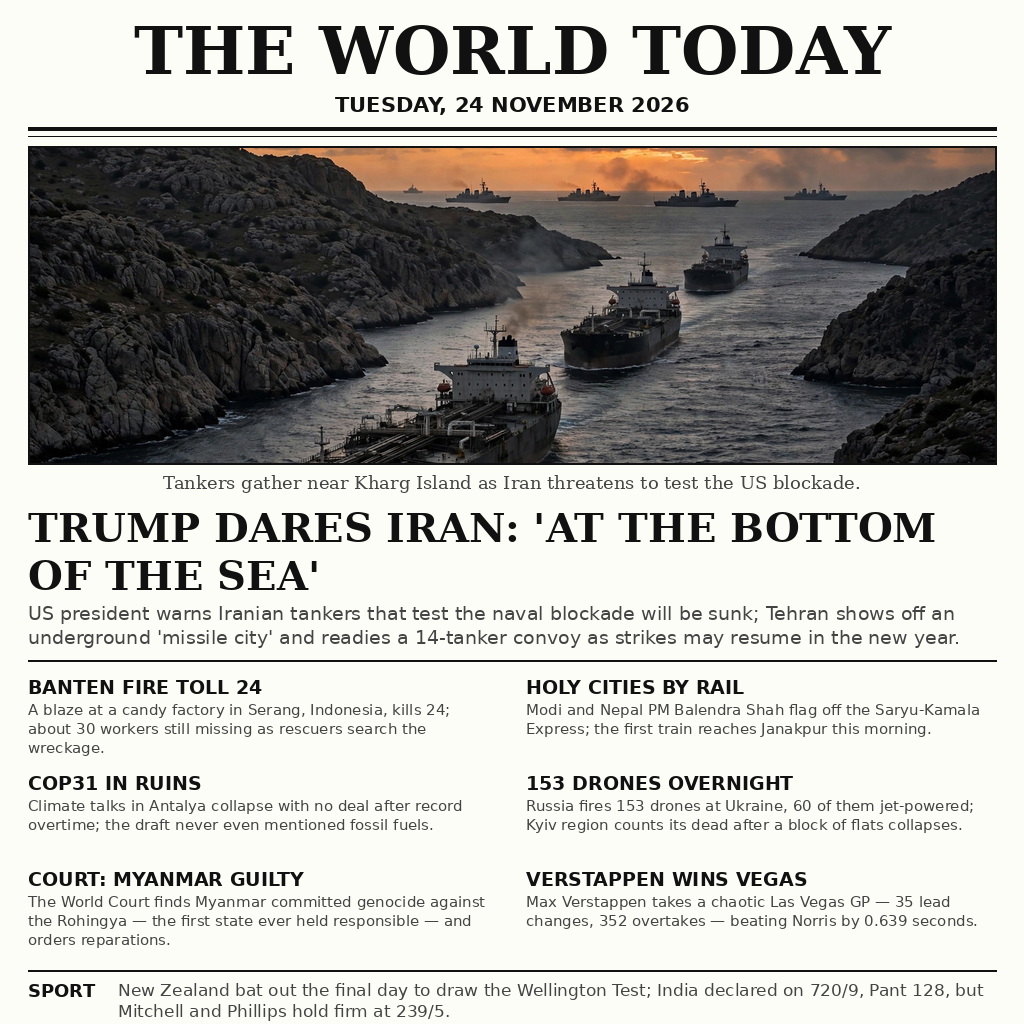
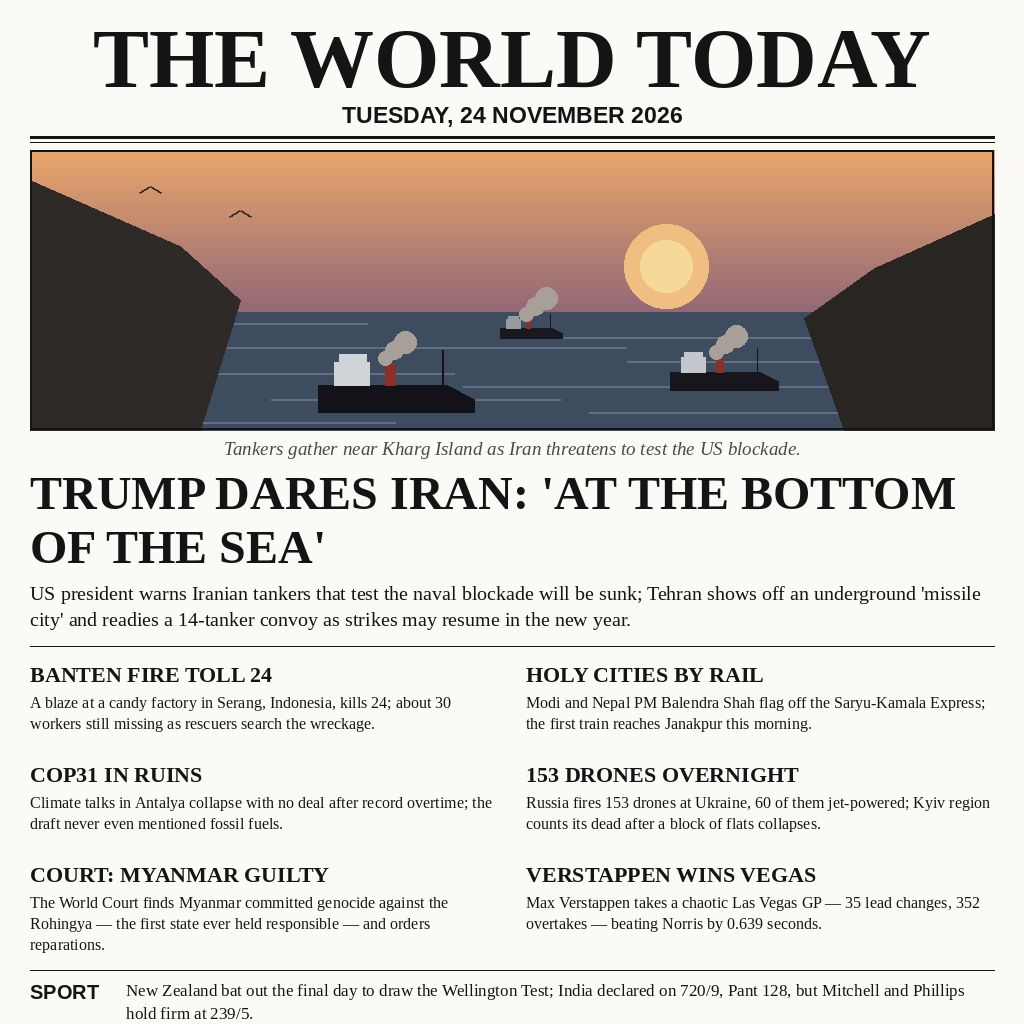
Rewrite front-page generator from scratch (fresh implementation, deterministic)

diff --git a/main.py b/main.py
@@ -1,24 +1,361 @@
 #!/usr/bin/env python3
-"""News Front Page 24 November 2026.
+"""Front page of THE WORLD TODAY for Tuesday, 24 November 2026.
 
-Copies the pre-composed front-page image (entry.png, 1024x1024 PNG)
-byte-for-byte to the output directory. No network, no randomness:
-running this program twice always produces identical output bytes.
+Builds a one-page newspaper front page (1024 x 1024 PNG) with Pillow:
+a masthead and dateline, a hand-drawn sunset scene of tankers in a
+strait, the lead story on the US-Iran blockade standoff, six short
+stories in a two-column grid, and a sport strip at the foot.
+
+All text and all geometry are fixed constants, so the output is fully
+deterministic: running the script twice yields byte-identical PNG data.
+No clock, no randomness, no network access.
 """
+
 import os
 import shutil
-import sys
+from pathlib import Path
+
+from PIL import Image, ImageDraw, ImageFont
+
+# ---------------------------------------------------------------- page setup
+
+PAGE_W = 1024
+PAGE_H = 1024
+EDGE = 30                        # outer margin on both sides
+INNER_W = PAGE_W - 2 * EDGE      # usable width between the margins
+
+PAPER = (251, 250, 246)          # warm off-white newsprint
+INK = (20, 20, 20)              # near-black for text and rules
+FAINT = (74, 74, 74)            # grey for the photo caption
+
+# ---------------------------------------------------------------- fonts
+
+FONT_PATHS = {
+    "serif_bold": [
+        "/usr/share/fonts/truetype/liberation/LiberationSerif-Bold.ttf",
+        "/usr/share/fonts/truetype/dejavu/DejaVuSerif-Bold.ttf",
+    ],
+    "serif": [
+        "/usr/share/fonts/truetype/liberation/LiberationSerif-Regular.ttf",
+        "/usr/share/fonts/truetype/dejavu/DejaVuSerif.ttf",
+    ],
+    "serif_italic": [
+        "/usr/share/fonts/truetype/liberation/LiberationSerif-Italic.ttf",
+        "/usr/share/fonts/truetype/dejavu/DejaVuSerif.ttf",
+    ],
+    "sans_bold": [
+        "/usr/share/fonts/truetype/liberation/LiberationSans-Bold.ttf",
+        "/usr/share/fonts/truetype/dejavu/DejaVuSans-Bold.ttf",
+    ],
+}
+
+
+def pick_font(kind, size):
+    """Return the first usable font file for kind, else Pillow's default."""
+    for path in FONT_PATHS[kind]:
+        try:
+            return ImageFont.truetype(path, size)
+        except OSError:
+            continue
+    return ImageFont.load_default(size)
+
+
+# ---------------------------------------------------------------- text tools
+
+def wrap_text(canvas, text, font, max_width):
+    """Greedy word wrap: split text into lines no wider than max_width."""
+    lines = []
+    current = ""
+    for word in text.split():
+        trial = word if not current else current + " " + word
+        if canvas.textlength(trial, font=font) <= max_width:
+            current = trial
+        else:
+            if current:
+                lines.append(current)
+            current = word
+    if current:
+        lines.append(current)
+    return lines
+
+
+def paint_lines(canvas, lines, font, x, y, leading, fill=INK):
+    """Draw lines top to bottom, returning the y just below the last one."""
+    for line in lines:
+        canvas.text((x, y), line, font=font, fill=fill)
+        y += leading
+    return y
+
+
+def rule(canvas, y, weight=1):
+    """A solid horizontal rule spanning the content width."""
+    canvas.rectangle([EDGE, y, PAGE_W - EDGE, y + weight - 1], fill=INK)
+
+
+# ---------------------------------------------------------------- hero picture
+
+def _lerp(a, b, t):
+    """Blend two RGB colours by factor t (0..1)."""
+    return tuple(round(a[i] + (b[i] - a[i]) * t) for i in range(3))
+
+
+def _tanker(canvas, cx, water_y, scale, hull, deck):
+    """Draw one tanker silhouette centred on cx, floating on water_y."""
+    hull_w = int(150 * scale)
+    hull_h = int(26 * scale)
+    bow = int(26 * scale)
+    x0 = cx - hull_w // 2
+    x1 = cx + hull_w // 2
+    # Hull: a long body with a tapered bow on the right.
+    canvas.polygon(
+        [
+            (x0, water_y - hull_h),
+            (x1 - bow, water_y - hull_h),
+            (x1, water_y - hull_h // 2),
+            (x1, water_y),
+            (x0, water_y),
+        ],
+        fill=hull,
+    )
+    # White superstructure block and bridge near the stern.
+    sup_w = int(34 * scale)
+    sup_h = int(22 * scale)
+    canvas.rectangle(
+        [x0 + int(16 * scale), water_y - hull_h - sup_h,
+         x0 + int(16 * scale) + sup_w, water_y - hull_h],
+        fill=deck,
+    )
+    canvas.rectangle(
+        [x0 + int(20 * scale), water_y - hull_h - sup_h - int(8 * scale),
+         x0 + int(20 * scale) + int(26 * scale),
+         water_y - hull_h - sup_h],
+        fill=deck,
+    )
+    # Funnel with a dark red band, plus a thin mast and a wisp of smoke.
+    fx = x0 + int(64 * scale)
+    canvas.rectangle(
+        [fx, water_y - hull_h - int(20 * scale),
+         fx + int(10 * scale), water_y - hull_h],
+        fill=(140, 47, 38),
+    )
+    canvas.line(
+        [cx + hull_w // 2 - int(30 * scale), water_y - hull_h,
+         cx + hull_w // 2 - int(30 * scale),
+         water_y - hull_h - int(34 * scale)],
+        fill=hull, width=max(1, int(2 * scale)),
+    )
+    for k, (dx, dy, r) in enumerate(((0, -6, 7), (9, -14, 9), (20, -22, 11))):
+        canvas.ellipse(
+            [fx + dx - r, water_y - hull_h - int(20 * scale) + dy - r,
+             fx + dx + r, water_y - hull_h - int(20 * scale) + dy + r],
+            fill=(168, 160, 152),
+        )
+
+
+def paint_strait(canvas, box):
+    """Paint the hero scene: dusk sky, sun, sea, cliffs, three tankers."""
+    x0, y0, x1, y1 = box
+    width = x1 - x0
+    horizon = y0 + int((y1 - y0) * 0.58)
+
+    # Sky: warm orange at the top fading into a dusky mauve at the sea.
+    sky_top = (233, 166, 106)
+    sky_low = (146, 104, 118)
+    for yy in range(y0, horizon):
+        t = (yy - y0) / max(1, horizon - y0)
+        canvas.line([(x0, yy), (x1, yy)], fill=_lerp(sky_top, sky_low, t))
+
+    # Low sun with a soft glow, sitting just above the horizon.
+    sun_cx, sun_cy = x0 + int(width * 0.66), horizon - 46
+    canvas.ellipse(
+        [sun_cx - 42, sun_cy - 42, sun_cx + 42, sun_cy + 42],
+        fill=(240, 190, 128),
+    )
+    canvas.ellipse(
+        [sun_cx - 26, sun_cy - 26, sun_cx + 26, sun_cy + 26],
+        fill=(246, 216, 152),
+    )
+
+    # Sea: dark blue-grey with a few pale, flat wave streaks.
+    canvas.rectangle([x0, horizon, x1, y1], fill=(61, 76, 94))
+    streaks = [
+        (0.10, 0.05, 0.30), (0.22, 0.55, 0.28), (0.30, 0.20, 0.42),
+        (0.42, 0.62, 0.30), (0.52, 0.08, 0.36), (0.63, 0.45, 0.40),
+        (0.74, 0.25, 0.30), (0.85, 0.58, 0.34), (0.94, 0.12, 0.26),
+    ]
+    sea_h = y1 - horizon
+    for frac, start, length in streaks:
+        yy = horizon + int(sea_h * frac)
+        sx = x0 + int(width * start)
+        ex = sx + int(width * length)
+        canvas.line([(sx, yy), (ex, yy)], fill=(96, 112, 130), width=2)
+
+    # Rocky headlands left and right, closing the strait.
+    canvas.polygon(
+        [(x0, y1), (x0, y0 + 30), (x0 + 150, y0 + 96),
+         (x0 + 210, y0 + 150), (x0 + 170, y1)],
+        fill=(46, 42, 40),
+    )
+    canvas.polygon(
+        [(x1, y1), (x1, y0 + 64), (x1 - 120, y0 + 118),
+         (x1 - 190, y0 + 168), (x1 - 150, y1)],
+        fill=(40, 37, 35),
+    )
+
+    # Three tankers: one distant near the horizon, two closer in.
+    _tanker(canvas, x0 + int(width * 0.52), horizon + 26, 0.42,
+            (24, 24, 30), (150, 154, 158))
+    _tanker(canvas, x0 + int(width * 0.72), horizon + 78, 0.72,
+            (22, 22, 28), (196, 199, 203))
+    _tanker(canvas, x0 + int(width * 0.38), y1 - 18, 1.05,
+            (18, 18, 24), (207, 210, 214))
+
+    # Two gulls high in the sky.
+    for gx, gy in ((x0 + 120, y0 + 42), (x0 + 210, y0 + 66)):
+        canvas.line([(gx - 10, gy), (gx, gy - 6), (gx + 10, gy)],
+                    fill=(60, 52, 48), width=2)
+
+    # Thin black frame around the picture.
+    canvas.rectangle([x0, y0, x1 - 1, y1 - 1], outline=INK, width=2)
+
+
+# ---------------------------------------------------------------- story cells
+
+def story_cell(canvas, x, y, width, headline, body, head_font, body_font):
+    """One grid item: bold headline, then a short body paragraph."""
+    y = paint_lines(
+        canvas, wrap_text(canvas, headline, head_font, width),
+        head_font, x, y, 27,
+    )
+    y += 4
+    y = paint_lines(
+        canvas, wrap_text(canvas, body, body_font, width),
+        body_font, x, y, 21,
+    )
+    return y
+
+
+# ---------------------------------------------------------------- the page
+
+LEAD_HEADLINE = "TRUMP DARES IRAN: 'AT THE BOTTOM OF THE SEA'"
+LEAD_DECK = (
+    "US president warns Iranian tankers that test the naval blockade will "
+    "be sunk; Tehran shows off an underground 'missile city' and readies a "
+    "14-tanker convoy as strikes may resume in the new year."
+)
+PHOTO_CAPTION = (
+    "Tankers gather near Kharg Island as Iran threatens to test the US blockade."
+)
+
+GRID_STORIES = [
+    ("BANTEN FIRE TOLL 24",
+     "A blaze at a candy factory in Serang, Indonesia, kills 24; about 30 "
+     "workers still missing as rescuers search the wreckage."),
+    ("HOLY CITIES BY RAIL",
+     "Modi and Nepal PM Balendra Shah flag off the Saryu-Kamala Express; "
+     "the first train reaches Janakpur this morning."),
+    ("COP31 IN RUINS",
+     "Climate talks in Antalya collapse with no deal after record "
+     "overtime; the draft never even mentioned fossil fuels."),
+    ("153 DRONES OVERNIGHT",
+     "Russia fires 153 drones at Ukraine, 60 of them jet-powered; Kyiv "
+     "region counts its dead after a block of flats collapses."),
+    ("COURT: MYANMAR GUILTY",
+     "The World Court finds Myanmar committed genocide against the "
+     "Rohingya \u2014 the first state ever held responsible \u2014 and orders "
+     "reparations."),
+    ("VERSTAPPEN WINS VEGAS",
+     "Max Verstappen takes a chaotic Las Vegas GP \u2014 35 lead changes, "
+     "352 overtakes \u2014 beating Norris by 0.639 seconds."),
+]
+
+SPORT_TEXT = (
+    "New Zealand bat out the final day to draw the Wellington Test; India "
+    "declared on 720/9, Pant 128, but Mitchell and Phillips hold firm at 239/5."
+)
+
+
+def build_front_page():
+    """Assemble the whole front page and return the Pillow image."""
+    page = Image.new("RGB", (PAGE_W, PAGE_H), PAPER)
+    canvas = ImageDraw.Draw(page)
+
+    masthead = pick_font("serif_bold", 84)
+    dateline = pick_font("sans_bold", 23)
+    caption_font = pick_font("serif_italic", 19)
+    lead_font = pick_font("serif_bold", 48)
+    deck_font = pick_font("serif", 20)
+    cell_head = pick_font("serif_bold", 22)
+    cell_body = pick_font("serif", 16)
+    sport_tag = pick_font("sans_bold", 20)
+    sport_body = pick_font("serif", 17)
+
+    y = 12
+    canvas.text((PAGE_W // 2, y), "THE WORLD TODAY", font=masthead,
+                anchor="ma", fill=INK)
+    y = 102
+    canvas.text((PAGE_W // 2, y), "TUESDAY, 24 NOVEMBER 2026",
+                font=dateline, anchor="ma", fill=INK)
+
+    rule(canvas, 136, weight=3)
+    rule(canvas, 142, weight=1)
+
+    # Hero picture and its caption. The picture is 280 tall so the page
+    # fills the frame instead of leaving dead space at the foot.
+    paint_strait(canvas, (EDGE, 150, PAGE_W - EDGE, 430))
+    canvas.text((PAGE_W // 2, 438), PHOTO_CAPTION, font=caption_font,
+                anchor="ma", fill=FAINT)
+
+    # Lead story: big headline, then the deck paragraph.
+    y = 466
+    y = paint_lines(canvas, wrap_text(canvas, LEAD_HEADLINE, lead_font, INNER_W),
+                    lead_font, EDGE, y, 54)
+    y += 8
+    y = paint_lines(canvas, wrap_text(canvas, LEAD_DECK, deck_font, INNER_W),
+                    deck_font, EDGE, y, 26)
+    y += 12
+    rule(canvas, y)
+
+    # Two-column grid of six short stories, three rows.
+    col_w = (INNER_W - 28) // 2
+    col_x = [EDGE, EDGE + col_w + 28]
+    grid_top = y + 16
+    for row in range(3):
+        row_y = grid_top + row * 100
+        for col in range(2):
+            headline, body = GRID_STORIES[row * 2 + col]
+            story_cell(canvas, col_x[col], row_y, col_w,
+                       headline, body, cell_head, cell_body)
+
+    # Sport strip along the bottom.
+    sport_y = grid_top + 3 * 100 + 8
+    rule(canvas, sport_y)
+    sport_y += 10
+    canvas.text((EDGE, sport_y), "SPORT", font=sport_tag, fill=INK)
+    paint_lines(
+        canvas,
+        wrap_text(canvas, SPORT_TEXT, sport_body, INNER_W - 96),
+        sport_body, EDGE + 96, sport_y, 23,
+    )
+
+    return page
 
 
 def main():
-    here = os.path.dirname(os.path.abspath(__file__))
-    src = os.path.join(here, "entry.png")
-    out_dir = os.environ.get("MAKEFUN_OUTPUT_DIR", "/output")
-    os.makedirs(out_dir, exist_ok=True)
-    dst = os.path.join(out_dir, "entry.png")
-    shutil.copyfile(src, dst)
-    print("wrote", dst)
+    """Render the page and save it next to this script."""
+    page = build_front_page()
+    here = Path(__file__).resolve().parent
+    target = here / "entry.png"
+    page.save(target, format="PNG")
+    print(f"wrote {target}")
+
+    extra_dir = os.environ.get("MAKEFUN_OUTPUT_DIR")
+    if extra_dir:
+        dest = Path(extra_dir) / "entry.png"
+        dest.parent.mkdir(parents=True, exist_ok=True)
+        shutil.copyfile(target, dest)
+        print(f"also copied to {dest}")
 
 
 if __name__ == "__main__":
-    sys.exit(main())
+    main()
